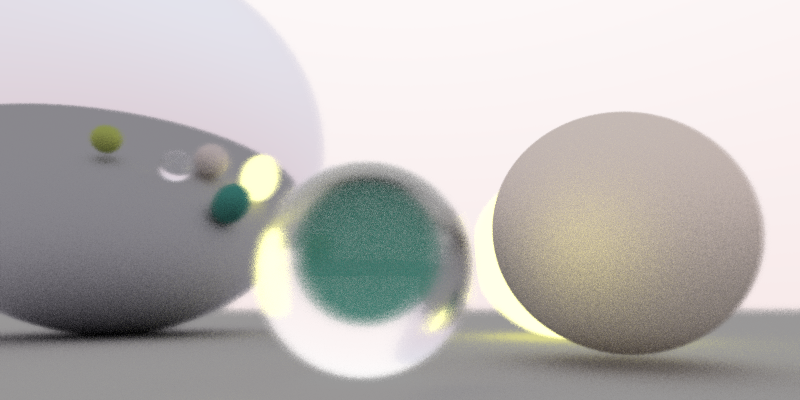
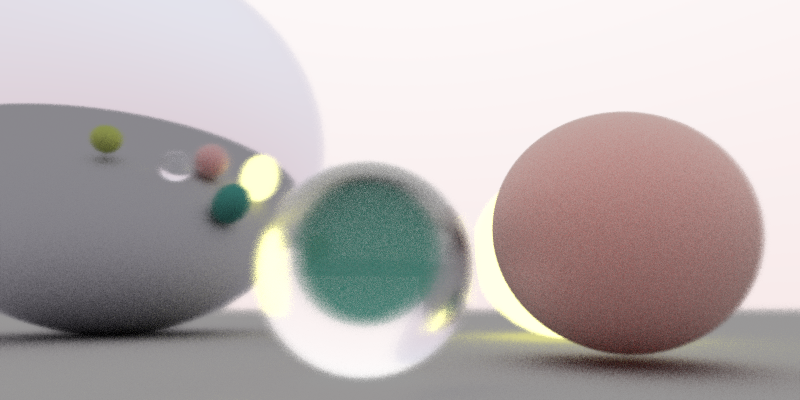
Fix colors in subsurface scattering

diff --git a/raytracer/Materials/Material.swift b/raytracer/Materials/Material.swift
@@ -1,26 +1,26 @@
 protocol Material {
   // Returns scattered ray, and whether the ray has reached a light source
-  func scatter(_ ray: Ray, _ intersection: Intersection) -> (Ray, Bool)
+  func scatter(_ intersection: Intersection) -> (Ray, Bool)
 }
 
 protocol Absorber: Material {
-  func scatter(_ ray: Ray, _ intersection: Intersection) -> Ray
-  func scatter(_ ray: Ray, _ intersection: Intersection) -> (Ray, Bool)
+  func scatter(_ intersection: Intersection) -> Ray
+  func scatter(_ intersection: Intersection) -> (Ray, Bool)
 }
 
 extension Absorber {
-  func scatter(_ ray: Ray, _ intersection: Intersection) -> (Ray, Bool) {
-    return (scatter(ray, intersection), false)
+  func scatter(_ intersection: Intersection) -> (Ray, Bool) {
+    return (scatter(intersection), false)
   }
 }
 
 protocol Emitter: Material {
-  func scatter(_ ray: Ray, _ intersection: Intersection) -> Ray
-  func scatter(_ ray: Ray, _ intersection: Intersection) -> (Ray, Bool)
+  func scatter(_ intersection: Intersection) -> Ray
+  func scatter(_ intersection: Intersection) -> (Ray, Bool)
 }
 
 extension Emitter {
-  func scatter(_ ray: Ray, _ intersection: Intersection) -> (Ray, Bool) {
-    return (scatter(ray, intersection), true)
+  func scatter(_ intersection: Intersection) -> (Ray, Bool) {
+    return (scatter(intersection), true)
   }
 }

diff --git a/raytracer/Materials/Transparent.swift b/raytracer/Materials/Transparent.swift
@@ -27,8 +27,8 @@ struct Transparent: Absorber {
     return rand(0,1) >= probability
   }
   
-  func scatter(_ ray: Ray, _ intersection: Intersection) -> Ray {
-    let i = ray.direction.normalized()
+  func scatter(_ intersection: Intersection) -> Ray {
+    let i = intersection.ray.direction.normalized()
     let normal = intersection.normal.normalized()
     
     let ratio: Scalar
@@ -48,12 +48,8 @@ struct Transparent: Absorber {
       point: intersection.point,
       direction: bounced
         + (randomVector() * fuzziness),
-      color: Color(
-        r: tintColor.r * ray.color.r,
-        g: tintColor.g * ray.color.g,
-        b: tintColor.b * ray.color.b
-      ),
-      time: ray.time
+      color: intersection.ray.color.multiply(tintColor),
+      time: intersection.ray.time
     )
   }
 }

diff --git a/raytracer/Geometry/InfinitePlane.swift b/raytracer/Geometry/InfinitePlane.swift
@@ -11,7 +11,13 @@ struct InfinitePlane: Surface {
   
   func intersectsRay(_ ray: Ray, min: Scalar, max: Scalar) -> Intersection? {
     if ray.direction.dot(normal) ~= 0 {
-      return Intersection(point: ray.point, normal: normal, material: material, time: ray.time)
+      return Intersection(
+        point: ray.point,
+        normal: normal,
+        material: material,
+        ray: ray,
+        time: ray.time
+      )
     } else {
       let t = (anchor - ray.point).dot(normal) / ray.direction.dot(normal)
       
@@ -20,6 +26,7 @@ struct InfinitePlane: Surface {
           point: ray.point + ray.direction*t,
           normal: normal * (ray.direction.dot(normal) > 0 ? -1 : 1),
           material: material,
+          ray: ray,
           time: ray.time
         )
       } else {

diff --git a/raytracer/Materials/Diffuse.swift b/raytracer/Materials/Diffuse.swift
@@ -2,16 +2,16 @@ struct Diffuse: Absorber {
   let color: Color
   let reflectivity: Scalar
   
-  func scatter(_ ray: Ray, _ intersection: Intersection) -> Ray {
+  func scatter(_ intersection: Intersection) -> Ray {
     return Ray(
       point: intersection.point,
       direction: intersection.normal + randomVector(),
       color: Color(
-        r: reflectivity * (ray.color.r * color.r),
-        g: reflectivity * (ray.color.g * color.g),
-        b: reflectivity * (ray.color.b * color.b)
+        r: reflectivity * (intersection.ray.color.r * color.r),
+        g: reflectivity * (intersection.ray.color.g * color.g),
+        b: reflectivity * (intersection.ray.color.b * color.b)
       ),
-      time: ray.time
+      time: intersection.ray.time
     )
   }
 }

diff --git a/raytracer/Materials/LightEmitter.swift b/raytracer/Materials/LightEmitter.swift
@@ -2,16 +2,16 @@ struct LightEmitter: Emitter {
   let tintColor: Color
   let brightness: Scalar
   
-  func scatter(_ ray: Ray, _ intersection: Intersection) -> Ray {
+  func scatter(_ intersection: Intersection) -> Ray {
     return Ray(
       point: intersection.point,
       direction: intersection.normal,
       color: Color(
-        r: tintColor.r * ray.color.r * brightness,
-        g: tintColor.g * ray.color.g * brightness,
-        b: tintColor.b * ray.color.b * brightness
+        r: tintColor.r * intersection.ray.color.r * brightness,
+        g: tintColor.g * intersection.ray.color.g * brightness,
+        b: tintColor.b * intersection.ray.color.b * brightness
       ),
-      time: ray.time
+      time: intersection.ray.time
     )
   }
 }

diff --git a/raytracer/Materials/Reflective.swift b/raytracer/Materials/Reflective.swift
@@ -2,19 +2,15 @@ struct Reflective: Absorber {
   let tintColor: Color
   let fuzziness: Scalar
   
-  func scatter(_ ray: Ray, _ intersection: Intersection) -> Ray {
+  func scatter(_ intersection: Intersection) -> Ray {
     return Ray(
       point: intersection.point,
       direction: (
-        ray.direction.reflectAround(intersection.normal)
+        intersection.ray.direction.reflectAround(intersection.normal)
           + (randomVector() * fuzziness)
         ).normalized(),
-      color: Color(
-        r: tintColor.r * ray.color.r,
-        g: tintColor.g * ray.color.g,
-        b: tintColor.b * ray.color.b
-      ),
-      time: ray.time
+      color: tintColor.multiply(intersection.ray.color),
+      time: intersection.ray.time
     )
   }
 }

diff --git a/raytracer/Materials/RandomScatterer.swift b/raytracer/Materials/RandomScatterer.swift
@@ -2,16 +2,16 @@ struct RandomScatterer: Absorber {
   let color: Color
   let reflectivity: Scalar
   
-  func scatter(_ ray: Ray, _ intersection: Intersection) -> Ray {
+  func scatter(_ intersection: Intersection) -> Ray {
     return Ray(
       point: intersection.point,
       direction: randomVector(),
       color: Color(
-        r: reflectivity * (ray.color.r * color.r),
-        g: reflectivity * (ray.color.g * color.g),
-        b: reflectivity * (ray.color.b * color.b)
+        r: reflectivity * (intersection.ray.color.r * color.r),
+        g: reflectivity * (intersection.ray.color.g * color.g),
+        b: reflectivity * (intersection.ray.color.b * color.b)
       ),
-      time: ray.time
+      time: intersection.ray.time
     )
   }
 }

diff --git a/raytracer/Geometry/Volume.swift b/raytracer/Geometry/Volume.swift
@@ -31,6 +31,7 @@ struct Volume: ContainedSurface {
           point: ray.point,
           normal: randomVector(),
           material: end.material,
+          ray: ray,
           time: ray.time
         )
       } else {
@@ -44,6 +45,7 @@ struct Volume: ContainedSurface {
             point: start.point,
             normal: start.normal,
             material: skin.material,
+            ray: ray,
             time: start.time
           )
         } else {
@@ -67,6 +69,7 @@ struct Volume: ContainedSurface {
           point: start.point + path.normalized()*distanceTravelled,
           normal: ray.direction.normalized() * -1,
           material: start.material,
+          ray: ray,
           time: start.time
         )
       }

diff --git a/raytracer/main.swift b/raytracer/main.swift
@@ -13,7 +13,7 @@ Raytracer(
     up: Vector(x: 0, y: 1, z: 0),
     vfov: 50,
     aspect: 2,
-    aperture: 0.05,
+    aperture: 0.04,
     focalDistance: (focus - origin).length
   ),
   surface: UnboundedSurfaceList(surfaces: [
@@ -44,8 +44,8 @@ Raytracer(
           radius: 0.7,
           material: Diffuse(color: Color(0xffe9dd), reflectivity: 0.6)
         ),
-        density: 1,
-        color: Color(0xFFFFFF)
+        density: 10,
+        color: Color(0xFFEEEE)
       ),
       Sphere(
         center: Point(x: 4.2, y: 0.9, z: -5),
@@ -79,7 +79,7 @@ Raytracer(
 ).render(
   w: 400,
   h: 200,
-  samples: 12,
+  samples: 2,
   time: TimeRange(from: 0, to: 1)
 ) { (image: [[Color]]) in
   writePNG(

diff --git a/raytracer/Materials/Blurrer.swift b/raytracer/Materials/Blurrer.swift
@@ -2,18 +2,14 @@ struct Blurrer: Absorber {
   let tintColor: Color
   let fuzziness: Scalar
   
-  func scatter(_ ray: Ray, _ intersection: Intersection) -> Ray {
+  func scatter(_ intersection: Intersection) -> Ray {
     return Ray(
       point: intersection.point,
       direction: (
-        ray.direction + (randomVector() * fuzziness)
+        intersection.ray.direction + (randomVector() * fuzziness)
       ).normalized(),
-      color: Color(
-        r: tintColor.r * ray.color.r,
-        g: tintColor.g * ray.color.g,
-        b: tintColor.b * ray.color.b
-      ),
-      time: ray.time
+      color: tintColor.multiply(intersection.ray.color),
+      time: intersection.ray.time
     )
   }
 }

diff --git a/raytracer/Geometry/TransformedSurface.swift b/raytracer/Geometry/TransformedSurface.swift
@@ -18,6 +18,7 @@ struct TransformedSurface: Surface {
         point: transformation * intersection.point,
         normal: transformation * intersection.normal,
         material: intersection.material,
+        ray: ray,
         time: ray.time
       )
     } else {
@@ -45,6 +46,7 @@ struct KeyframedSurface: Surface {
         point: transformation * intersection.point,
         normal: transformation * intersection.normal,
         material: intersection.material,
+        ray: ray,
         time: ray.time
       )
     } else {

diff --git a/raytracer/Geometry/Sphere.swift b/raytracer/Geometry/Sphere.swift
@@ -35,6 +35,7 @@ struct Sphere: ContainedSurface {
           point: point,
           normal: normalAt(point),
           material: material,
+          ray: ray,
           time: ray.time
         )
       } else if t2 >= min && t <= max {
@@ -43,6 +44,7 @@ struct Sphere: ContainedSurface {
           point: point,
           normal: normalAt(point),
           material: material,
+          ray: ray,
           time: ray.time
         )
       } else {
